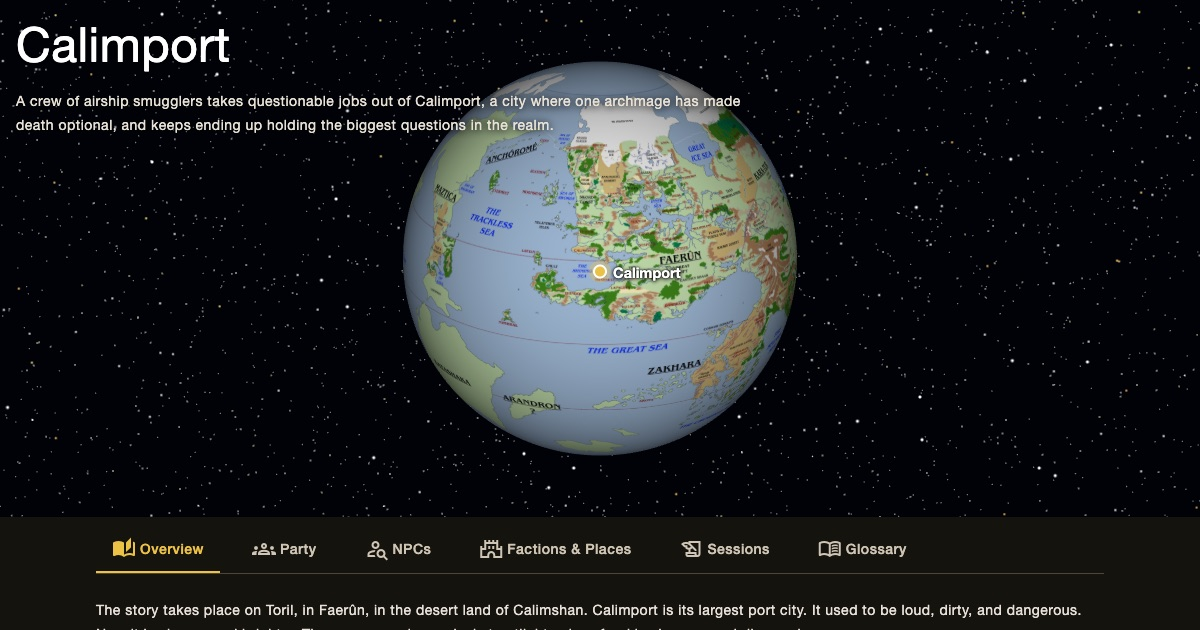
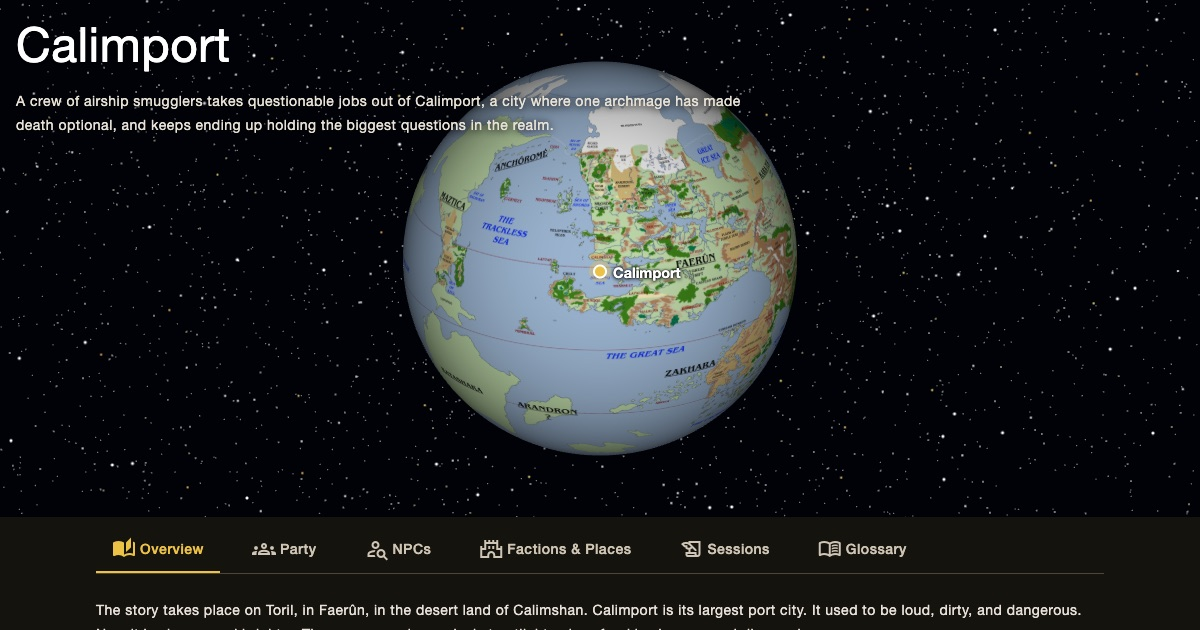
Calimport page: move the Calimport pin to the coast below the Calim Desert
The first pin sat at a river mouth near the Forest of Mir. The WotC 3E Faerun map puts the city on the south coast under the east end of the Calim Desert, and the pin now follows it. Clicking the pin also zooms in closer.

Changed region(s): [[0.3392, 0.1206, 0.6783, 0.6635], [0.9867, 0.1206, 1.0, 0.1508], [0.0925, 0.7238, 0.1233, 0.754]]

diff --git a/dnd/calimport-kjo4upkl7v/globe.js b/dnd/calimport-kjo4upkl7v/globe.js
@@ -13,9 +13,10 @@ const SETTINGS = {
   starBrightness: 2.95,
 };
 
-// Pixel position of Calimport on toril-2023-1.png (9864 x 5626). The source map has no city dots,
-// so this is the river mouth on the Calimshan coast where the city sits on canon maps.
-const PINS = [{ id: "calimport", label: "Calimport", u: 3180 / 9864, v: 2130 / 5626 }];
+// Pixel position of Calimport on toril-2023-1.png (9864 x 5626). The source map has no city dots, so
+// this comes from the WotC 3E Faerun map, which puts the city on the south coast below the eastern end
+// of the Calim Desert. The desert and the Marching Mountains line the two maps up.
+const PINS = [{ id: "calimport", label: "Calimport", u: 3052 / 9864, v: 2080 / 5626 }];
 
 const STAR_LAYERS = [
   { count: 14000, size: 1.3, radius: 800, colors: ["#ffffff", "#fff8e7", "#ffe4b5"] },
@@ -117,7 +118,7 @@ export function mountGlobe(host, { onProgress, onReady, onError } = {}) {
     el.className = "pin";
     el.type = "button";
     el.innerHTML = `<span class="pin-dot"></span><span class="pin-label">${p.label}</span>`;
-    el.addEventListener("click", () => flyTo(p.id));
+    el.addEventListener("click", () => flyTo(p.id, 3.4));
     host.appendChild(el);
     return { ...p, el, pos: uvToVec(p.u, p.v) };
   });
